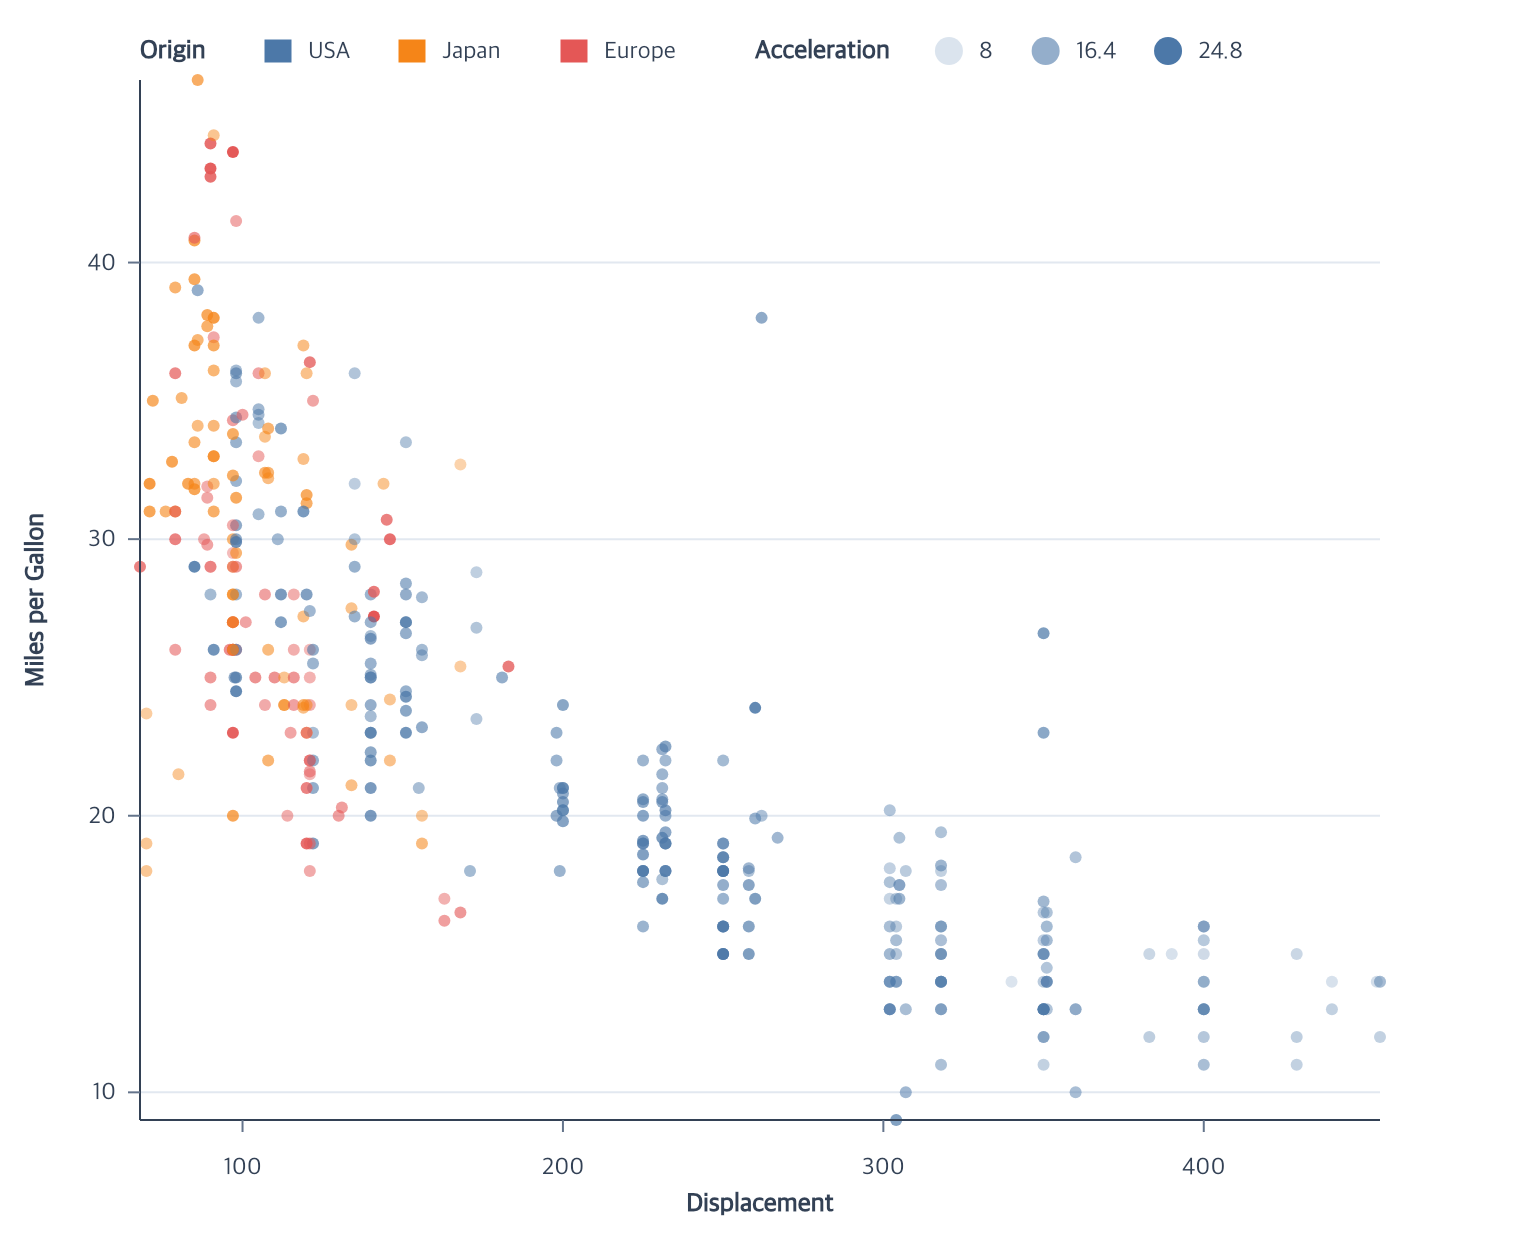
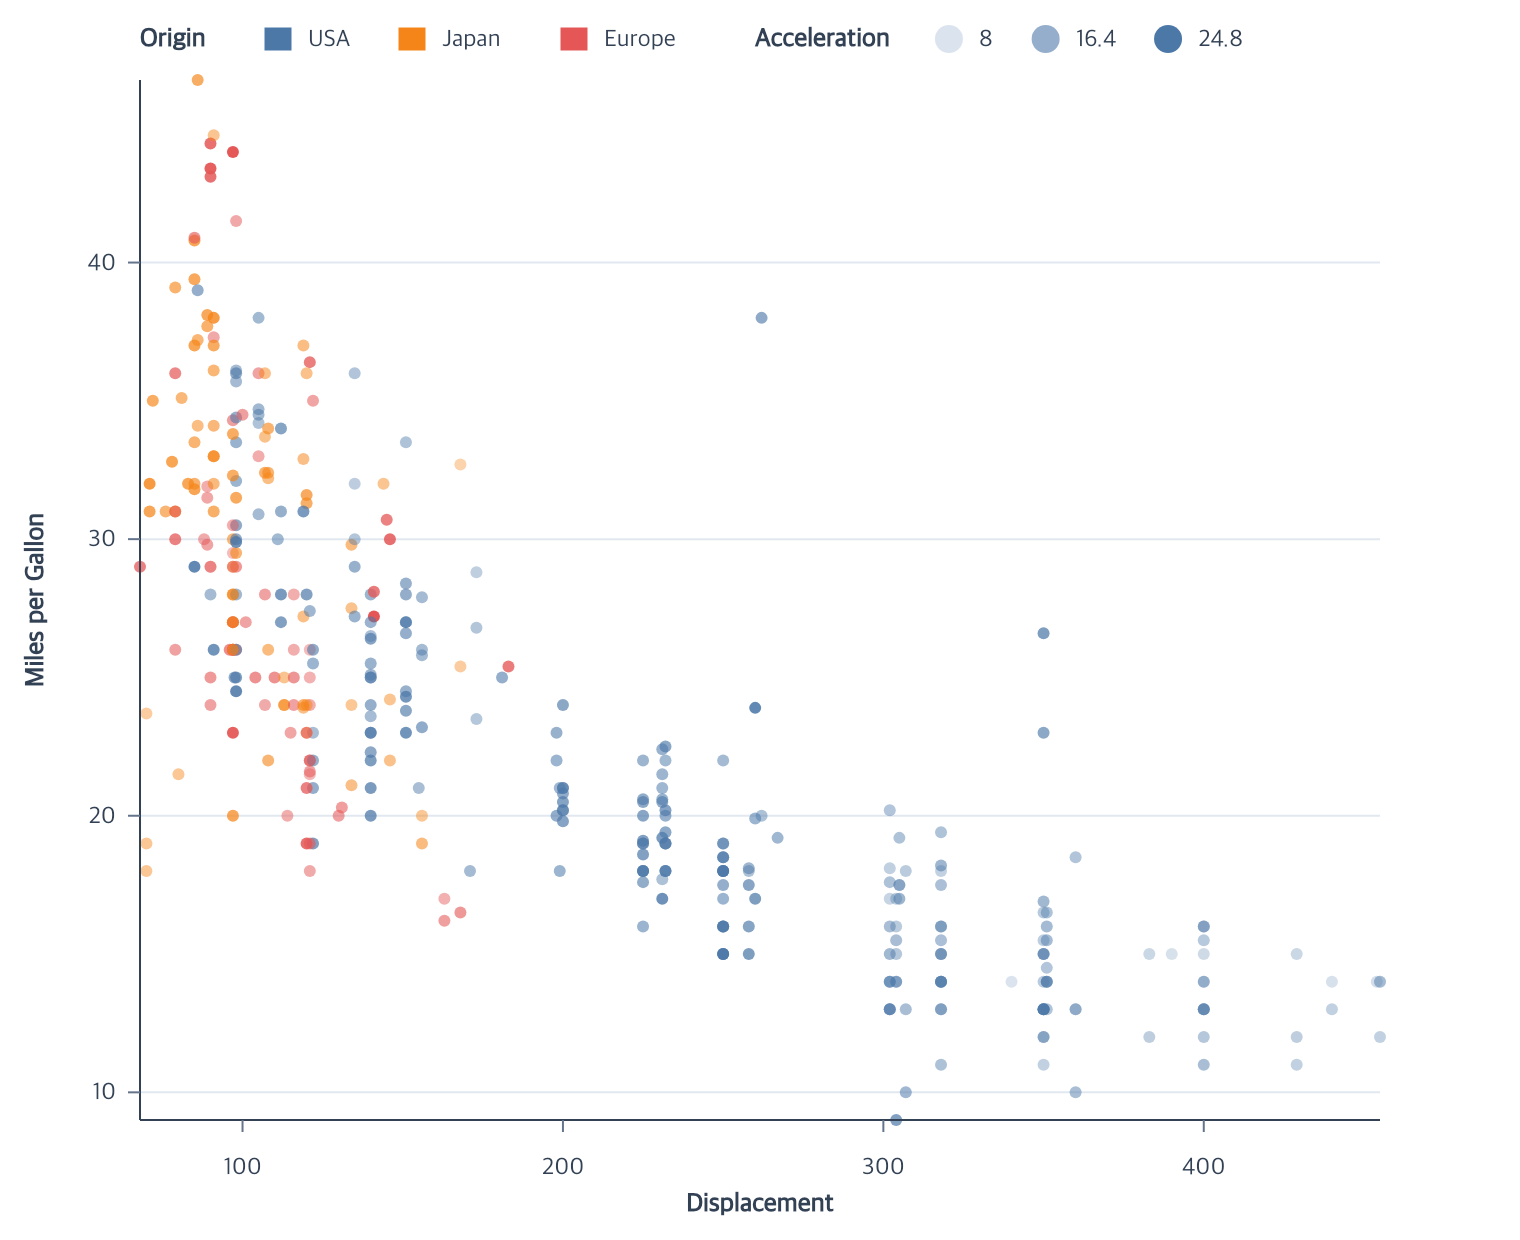
docs: increase horizontal legend chart gap

diff --git a/test/charts/cars-multi-legend-layout/public.test.js b/test/charts/cars-multi-legend-layout/public.test.js
@@ -38,6 +38,14 @@ test("left-packs inline legend blocks with the approved reading rhythm", () => {
     const values = LEGEND_LAYOUT[position];
     const color = blockBounds(program, "color");
     const opacity = blockBounds(program, "opacity");
+    const legend = unionConcreteGraphicBounds(program.graphicSpec, [
+      "colorLegendTitle",
+      "colorLegendSymbols",
+      "colorLegendLabels",
+      "opacityLegendTitle",
+      "opacityLegendSymbols",
+      "opacityLegendLabels"
+    ]);
     const objects = program.graphicSpec.objects;
 
     assert.equal(objects.points.items.length, 398);
@@ -45,6 +53,15 @@ test("left-packs inline legend blocks with the approved reading rhythm", () => {
     assert.equal(opacity.left - color.right, LEGEND_LAYOUT.blockGap);
     assert.equal(objects.colorLegendTitle.properties.y, values.lineY);
     assert.equal(objects.opacityLegendTitle.properties.y, values.lineY);
+    assert.equal(
+      position === "top"
+        ? 40 - legend.bottom
+        : legend.top - resolveConcreteGraphicBounds(
+            program.graphicSpec,
+            "xAxisTitle"
+          ).bottom,
+      values.chartGap
+    );
     assert.equal(
       objects.colorLegendSymbols.items.every(item =>
         item.properties.y + item.properties.height / 2 === values.lineY

diff --git a/test/charts/cars-multi-legend-layout/manifest.js b/test/charts/cars-multi-legend-layout/manifest.js
@@ -11,7 +11,7 @@ function callChain(position) {
   const margin = position === "top"
     ? "{ top: 40, right: 70, bottom: 60, left: 70 }"
     : "{ top: 40, right: 70, bottom: 100, left: 70 }";
-  const offset = position === "bottom" ? ",\n    offset: 60" : "";
+  const offset = position === "top" ? 14 : 69;
   return `chart()
   .createCanvas({
     width: 760,
@@ -37,7 +37,8 @@ function callChain(position) {
     position: "${position}",
     align: "left",
     columns: 3,
-    titlePosition: "left"${offset}
+    titlePosition: "left",
+    offset: ${offset}
   })
   .createLegend({
     target: "points",
@@ -45,7 +46,8 @@ function callChain(position) {
     position: "${position}",
     align: "right",
     count: 3,
-    titlePosition: "left"${offset}
+    titlePosition: "left",
+    offset: ${offset}
   });`;
 }
 

diff --git a/examples/cars-multi-legend-layout/program.js b/examples/cars-multi-legend-layout/program.js
@@ -42,7 +42,7 @@ export function createCarsMultiLegendLayoutBase(cars, {
 export function createCarsMultiLegendLayout(cars, {
   position = "top"
 } = {}) {
-  const offset = position === "bottom" ? { offset: 60 } : {};
+  const offset = position === "top" ? 14 : 69;
   return createCarsMultiLegendLayoutBase(cars, { position })
     .createLegend({
       target: "points",
@@ -51,7 +51,7 @@ export function createCarsMultiLegendLayout(cars, {
       align: "left",
       columns: 3,
       titlePosition: "left",
-      ...offset
+      offset
     })
     .createLegend({
       target: "points",
@@ -60,6 +60,6 @@ export function createCarsMultiLegendLayout(cars, {
       align: "right",
       count: 3,
       titlePosition: "left",
-      ...offset
+      offset
     });
 }

diff --git a/test/charts/cars-multi-legend-layout/reference-values.js b/test/charts/cars-multi-legend-layout/reference-values.js
@@ -18,7 +18,8 @@ export const LEGEND_LAYOUT = Object.freeze({
   opacityItems: OPACITY_ITEMS,
   opacityLabelWidth: Object.freeze([6.36, 19.2, 22.32]),
   top: Object.freeze({
-    lineY: 25.5,
+    lineY: 19.5,
+    chartGap: 13.5,
     colorSymbolX: Object.freeze([132, 199, 280]),
     colorLabelX: Object.freeze([154, 221, 302]),
     opacityTitleX: 377.52,
@@ -26,7 +27,8 @@ export const LEGEND_LAYOUT = Object.freeze({
     opacityLabelX: Object.freeze([489.46, 537.8199999999999, 599.02])
   }),
   bottom: Object.freeze({
-    lineY: 586.5,
+    lineY: 595.5,
+    chartGap: 20,
     colorSymbolX: Object.freeze([132, 195, 272]),
     colorLabelX: Object.freeze([154, 217, 294]),
     opacityTitleX: 369.52,
